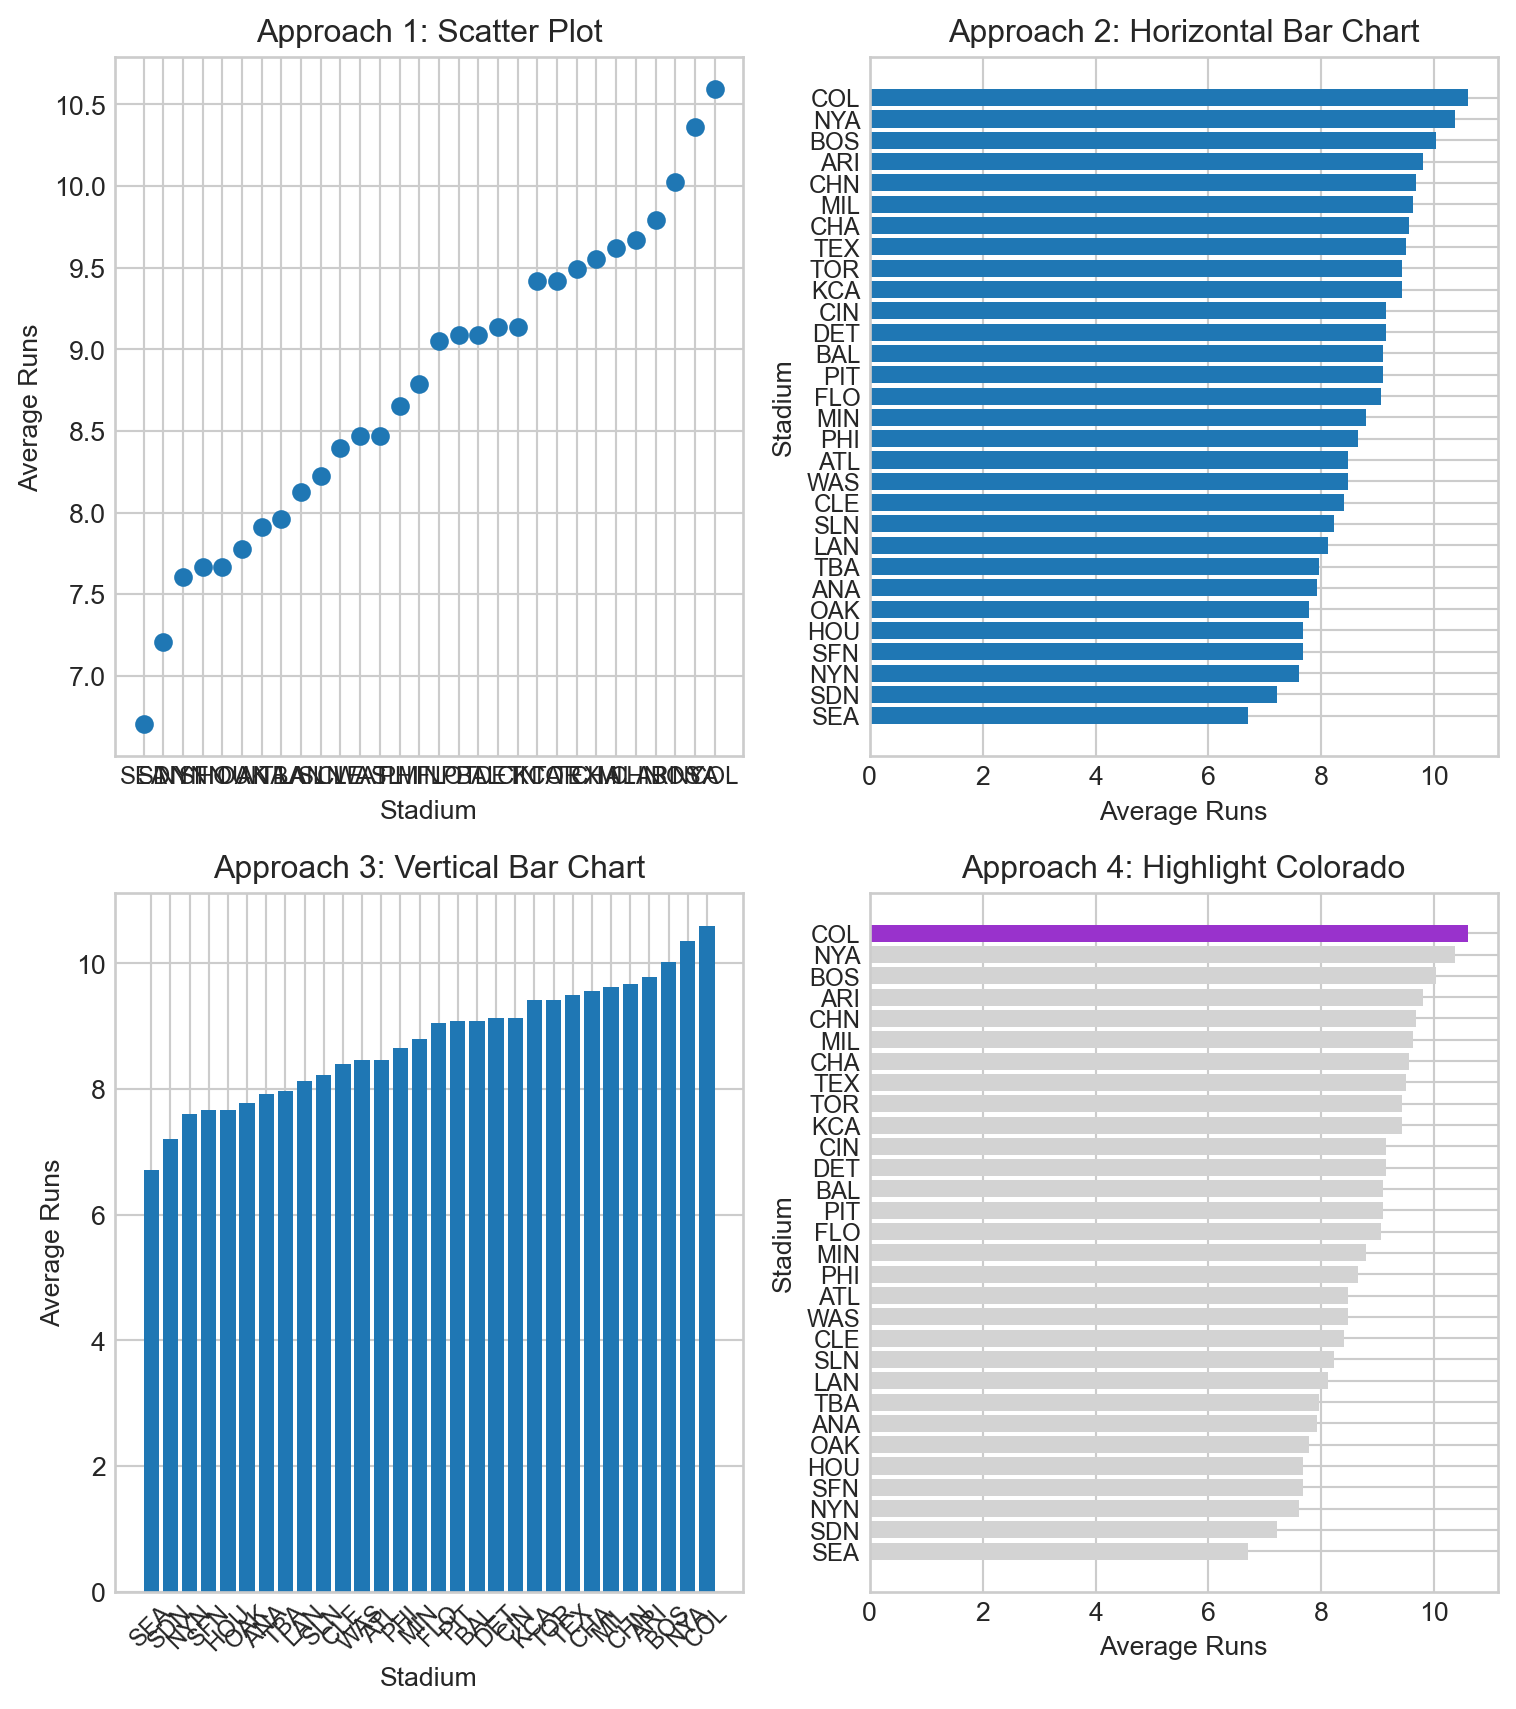
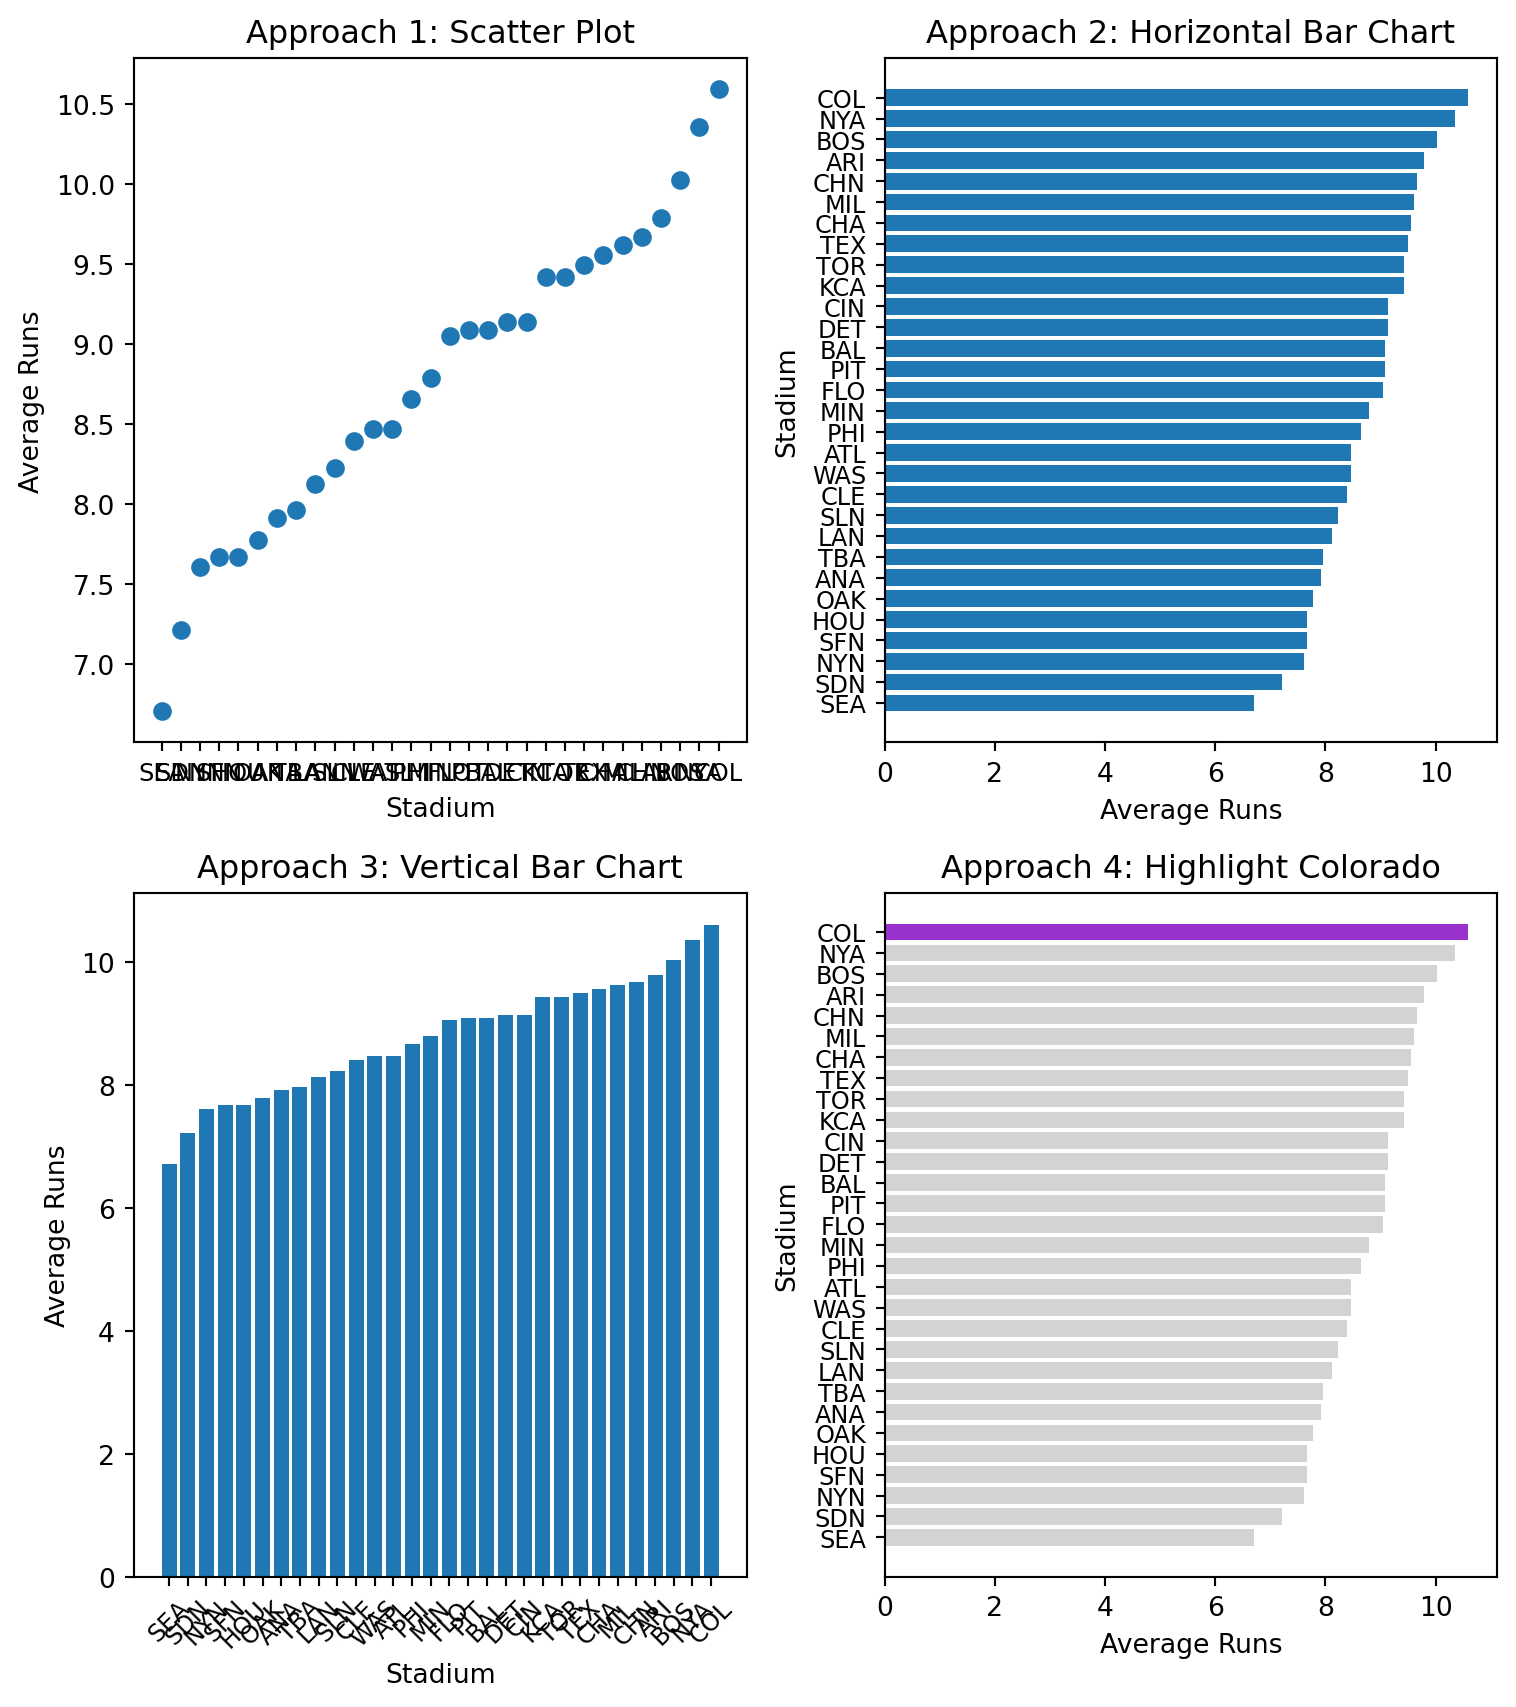
Add portfolio

Changed region(s): [[0.0, 0.0, 0.9921, 0.9936], [0.6201, 0.0, 0.9611, 0.031]]

diff --git a/index.html b/index.html
@@ -339,7 +339,7 @@ First few rows of 2010 data:
 <div class="cell-output cell-output-display">
 <div>
 <figure class="figure">
-<p><img src="index_files/figure-html/stage-3-mapping-exploration-output-1.png" id="stage-3-mapping-exploration" width="758" height="855" class="figure-img"></p>
+<p><img src="index_files/figure-html/stage-3-mapping-exploration-output-1.png" id="stage-3-mapping-exploration" width="758" height="854" class="figure-img"></p>
 </figure>
 </div>
 </div>
@@ -509,15 +509,15 @@ Colorado is 20.8% above league average</code></pre>
 <span id="cb9-29"><a href="#cb9-29" aria-hidden="true" tabindex="-1"></a><span class="co"># Legend (shared)</span></span>
 <span id="cb9-30"><a href="#cb9-30" aria-hidden="true" tabindex="-1"></a>colorado_patch <span class="op">=</span> plt.Rectangle((<span class="dv">0</span>, <span class="dv">0</span>), <span class="dv">1</span>, <span class="dv">1</span>, color<span class="op">=</span><span class="st">"darkorchid"</span>, label<span class="op">=</span><span class="st">"Colorado (COL)"</span>)</span>
 <span id="cb9-31"><a href="#cb9-31" aria-hidden="true" tabindex="-1"></a>other_patch <span class="op">=</span> plt.Rectangle((<span class="dv">0</span>, <span class="dv">0</span>), <span class="dv">1</span>, <span class="dv">1</span>, color<span class="op">=</span><span class="st">"lightgrey"</span>, label<span class="op">=</span><span class="st">"Other Stadiums"</span>)</span>
-<span id="cb9-32"><a href="#cb9-32" aria-hidden="true" tabindex="-1"></a>fig.legend(handles<span class="op">=</span>[colorado_patch, other_patch], loc<span class="op">=</span><span class="st">"upper center"</span>, ncol<span class="op">=</span><span class="dv">2</span>, frameon<span class="op">=</span><span class="va">True</span>)</span>
+<span id="cb9-32"><a href="#cb9-32" aria-hidden="true" tabindex="-1"></a>fig.legend(handles<span class="op">=</span>[colorado_patch, other_patch], loc<span class="op">=</span><span class="st">"upper center"</span>, bbox_to_anchor<span class="op">=</span>(<span class="fl">0.5</span>, <span class="op">-</span><span class="fl">0.02</span>), ncol<span class="op">=</span><span class="dv">2</span>, frameon<span class="op">=</span><span class="va">True</span>)</span>
 <span id="cb9-33"><a href="#cb9-33" aria-hidden="true" tabindex="-1"></a></span>
 <span id="cb9-34"><a href="#cb9-34" aria-hidden="true" tabindex="-1"></a>fig.suptitle(<span class="st">"Stadium Run-Friendliness: 2010 vs 2021"</span>, fontsize<span class="op">=</span><span class="dv">14</span>, fontweight<span class="op">=</span><span class="st">"bold"</span>, y<span class="op">=</span><span class="fl">1.02</span>)</span>
-<span id="cb9-35"><a href="#cb9-35" aria-hidden="true" tabindex="-1"></a>plt.tight_layout()</span>
+<span id="cb9-35"><a href="#cb9-35" aria-hidden="true" tabindex="-1"></a>plt.tight_layout(rect<span class="op">=</span>[<span class="dv">0</span>, <span class="fl">0.03</span>, <span class="dv">1</span>, <span class="fl">0.97</span>])</span>
 <span id="cb9-36"><a href="#cb9-36" aria-hidden="true" tabindex="-1"></a>plt.show()</span></code></pre></div><button title="Copy to Clipboard" class="code-copy-button"><i class="bi"></i></button></div>
 <div class="cell-output cell-output-display">
 <div>
 <figure class="figure">
-<p><img src="index_files/figure-html/two-facet-visualization-output-1.png" id="two-facet-visualization" width="1142" height="690" class="figure-img"></p>
+<p><img src="index_files/figure-html/two-facet-visualization-output-1.png" id="two-facet-visualization" width="1142" height="747" class="figure-img"></p>
 </figure>
 </div>
 </div>
